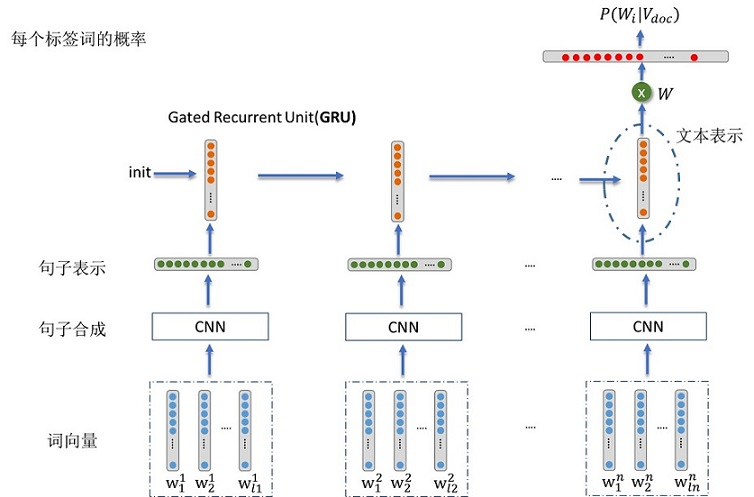
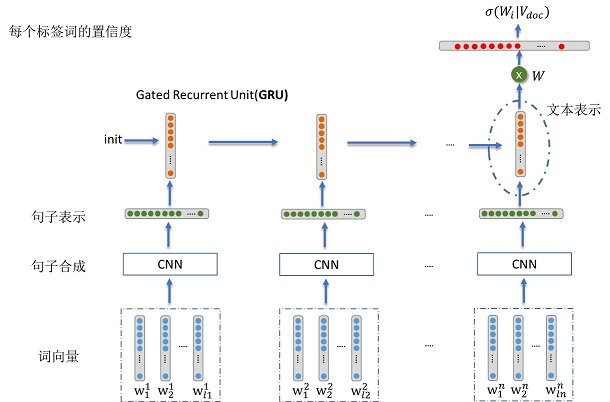
Update

diff --git a/README.md b/README.md
@@ -1,7 +1,22 @@
 # Tag-Suggestion
 这部分实验模型代码是在[hed-dlg-truncated](https://github.com/julianser/hed-dlg-truncated)基础上进行修改的。不过他们的代码非常复杂，实现的功能也很多，我最终所用的部分其实很少。由于刚开始学习Theano时就接触到这份代码，当时也是一边参考theano官方文档一边学习这份代码的，最后索性自己的模型也就在这份代码的基础上进行搭建了。
 
-我所做的任务是给文本推荐标签标签，比如[知乎](https://www.zhihu.com/)，对于每个问题用户都会给出1~5个话题标签，而我希望通过构建一个模型能够自动根据用户的问题描述给出话题标签。知乎上大部分问题都会有问题的详细描述，我们把它视为是一个文本，由于是对文本进行建模，所以采用了层次化的深度神经网络（即先利用CNN模型从词学习得到句子的向量表示，再通过GRU模型从句子学习得到文本表示）。具体做法是，输入词向量利用CNN模型学习得到一个句子向量，然后再将句子向量输入到GRU中，将GRU的最后一个状态向量作为文本向量表示，最后接入一个sigmoid层（相当于构建多个sigmoid分类器），预测每个标签词的置信度。模型结构如下图所示，
+========================================================
+
+模型
+--------------------------------------------------------
+我所做的任务是社会媒体上的文本标签注释（简单的说就是给文本推荐标签），比如[知乎](https://www.zhihu.com/)，对于每个问题用户都会给出1~5个话题标签，而我希望通过构建一个模型能够自动根据用户的问题描述给出话题标签。知乎上大部分问题都会有问题的详细描述，我们把它视为是一个文本，由于是对文本进行建模，所以采用了层次化的深度神经网络（即先利用CNN模型从词学习得到句子的向量表示，再通过GRU模型从句子学习得到文本表示）。具体做法是，输入词向量利用CNN模型学习得到一个句子向量，然后再将句子向量输入到GRU中，将GRU的最后一个状态向量作为文本向量表示，最后接入一个sigmoid层（相当于构建多个sigmoid分类器），预测每个标签词的置信度。模型结构如下图所示，
 
 ![model](model.jpg?raw=true "model")
 
+事实上，除了上述用CNN学习句子向量表示以外我们还尝试了用RNN（GRU）、char-rnn、Skip-Thought学习句子表示。
+
+实验
+--------------------------------------------------------
+我们总共爬取了50W知乎数据，随机抽取了10万数据作为训练语料，5千作为测试语料，采用了两种评价指标PRF和R-Precision。目前我们评价的是模型预测生成的top-3的结果，以下是实验结果
+|   模型               | P      | R      | P      | R-Precision  |
+| -------------------- |:------:|:------:|:------:|:------------:|
+| CNN+GRU(this code)   | 0.2828 | 0.3247 | 0.2828 | 0.2998       |
+| GRU+GRU              | 0.2762 | 0.3173 | 0.2766 | 0.2957       |
+| char-rnn+GRU         | 0.2828 | 0.3247 | 0.2828 | 0.2998       |
+|Hierarchical Attention| 0.2732 | 0.3142 | 0.2732 | 0.2880       |
